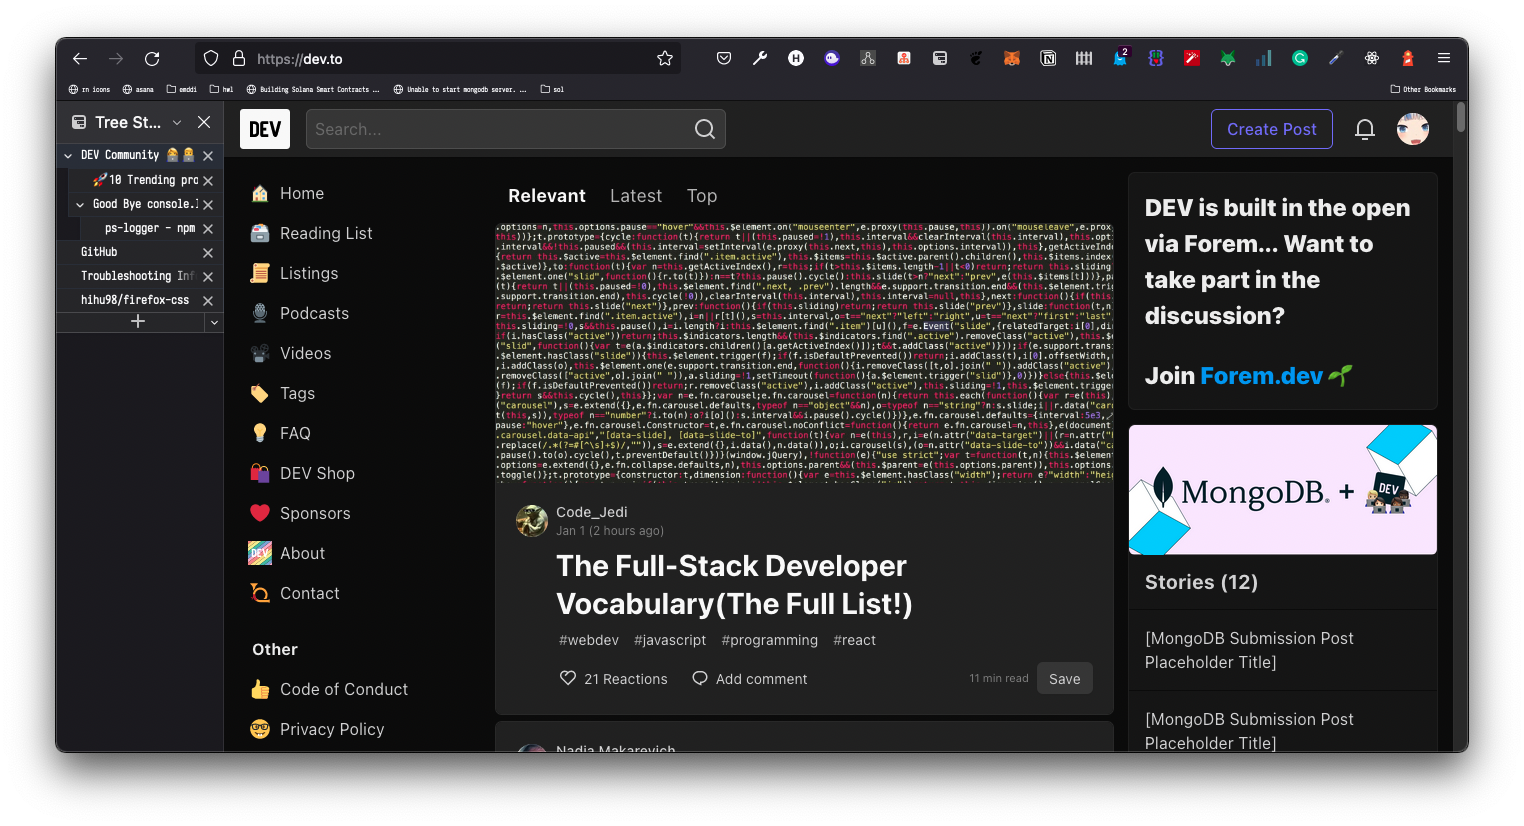
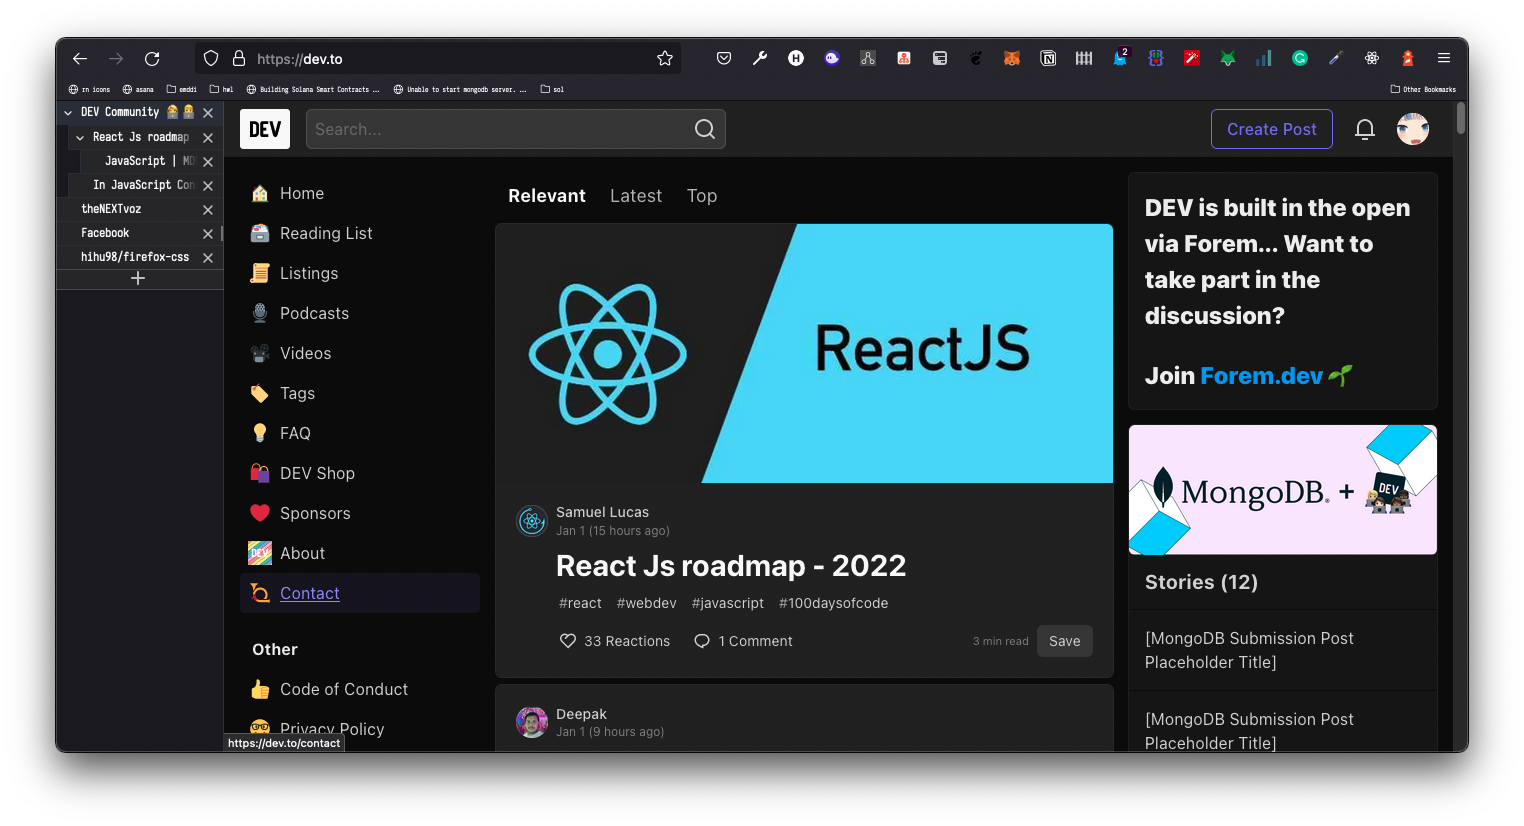
hide treestyletab header

diff --git a/chrome/userChrome.css b/chrome/userChrome.css
@@ -12,3 +12,13 @@
   height: 10px !important;
   width: 10px !important;
 }
+
+@namespace url("http://www.mozilla.org/keymaster/gatekeeper/there.is.only.xul");
+
+#TabsToolbar {
+  visibility: collapse !important;
+}
+#sidebar-box[sidebarcommand="treestyletab_piro_sakura_ne_jp-sidebar-action"]
+  #sidebar-header {
+  display: none;
+}
